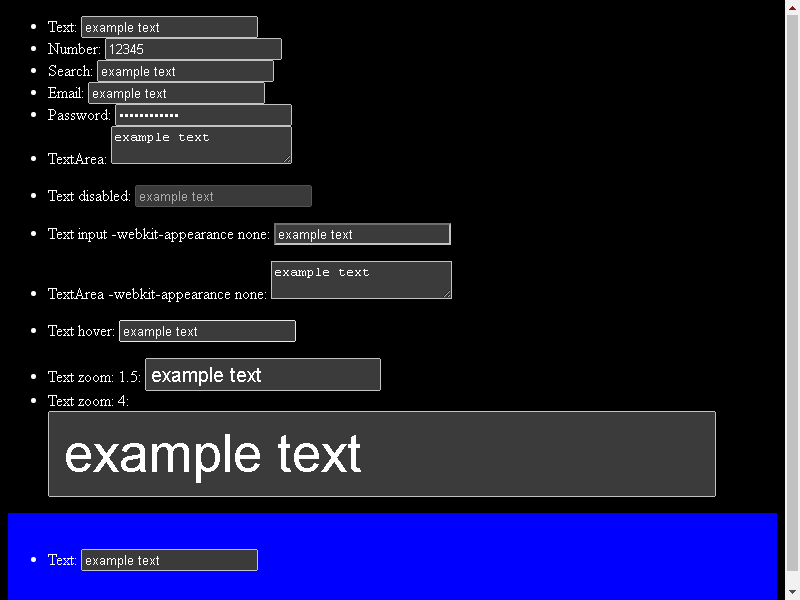
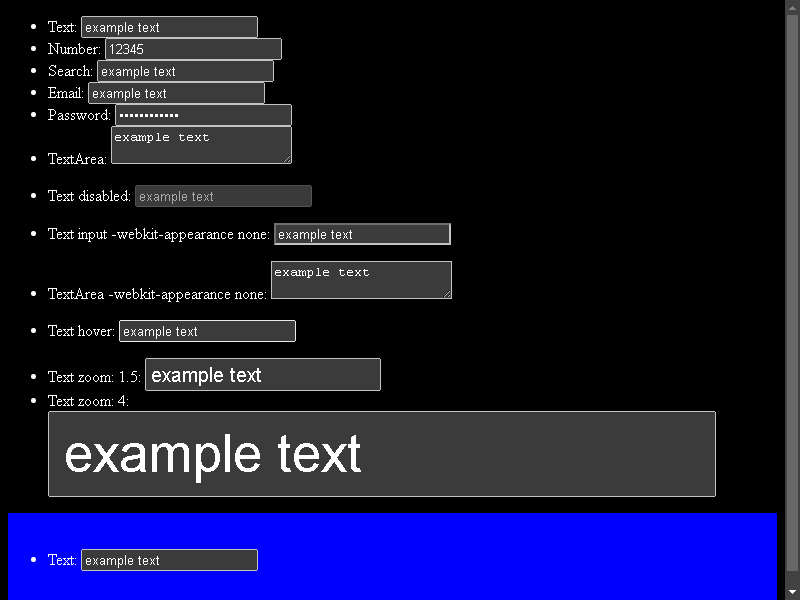
[Controls Refresh] Adds dark mode styling for scrollbars
This change uses the native_theme and scrollbar_theme properties to set
correct dark mode styling for scrollbars.

Bug: 929098
Commit-Queue: Sam Sebree <sasebree@microsoft.com>
Cr-Original-Commit-Position: refs/heads/master@{#760579}
Cr-Mirrored-From: https://chromium.googlesource.com/chromium/src
Cr-Mirrored-Commit: c6246ceb5ce6aca56427e2a96d9b8bdf6aa8d534

Changed region(s): [[0.9688, 0.0, 1.0, 1.0]]

diff --git a/blink/web_tests/virtual/dark-color-scheme/scrollbar/scrollbar-middle.html b/blink/web_tests/virtual/dark-color-scheme/scrollbar/scrollbar-middle.html
@@ -1,0 +1,23 @@
+<!DOCTYPE html>
+<meta name="color-scheme" content="dark">
+<body>
+  <br><br><br><br><br>
+  <br><br><br><br><br>
+  <br><br><br><br><br>
+  <br><br><br><br><br>
+  <br><br><br><br><br>
+  <br><br><br><br><br>
+  <br><br><br><br><br>
+  <br><br><br><br><br>
+  <br><br><br><br><br>
+  <br><br><br><br><br>
+  <br><br><br><br><br>
+  <br><br><br><br><br>
+  <br><br><br><br><br>
+  <br><br><br><br><br>
+  <br><br><br><br><br>
+  <br><br><br><br><br>
+  <script>
+    window.scrollBy(0, 100);
+  </script>
+</body>

diff --git a/blink/web_tests/virtual/dark-color-scheme/scrollbar/scrollbar-top.html b/blink/web_tests/virtual/dark-color-scheme/scrollbar/scrollbar-top.html
@@ -1,0 +1,20 @@
+<!DOCTYPE html>
+<meta name="color-scheme" content="dark">
+<body>
+  <br><br><br><br><br>
+  <br><br><br><br><br>
+  <br><br><br><br><br>
+  <br><br><br><br><br>
+  <br><br><br><br><br>
+  <br><br><br><br><br>
+  <br><br><br><br><br>
+  <br><br><br><br><br>
+  <br><br><br><br><br>
+  <br><br><br><br><br>
+  <br><br><br><br><br>
+  <br><br><br><br><br>
+  <br><br><br><br><br>
+  <br><br><br><br><br>
+  <br><br><br><br><br>
+  <br><br><br><br><br>
+</body>

diff --git a/blink/renderer/core/scroll/scrollbar_theme_mac.mm b/blink/renderer/core/scroll/scrollbar_theme_mac.mm
@@ -236,8 +236,8 @@ CocoaScrollbarPainter::Params GetPaintParams(const Scrollbar& scrollbar,
   if (scrollbar.IsLeftSideVerticalScrollbar())
     params.orientation = CocoaScrollbarPainter::Orientation::kVerticalOnLeft;
 
+  params.dark_mode = scrollbar.UsedColorScheme() == WebColorScheme::kDark;
   params.overlay = overlay;
-  // Only enable dark mode for overlay scrollbars (for now).
   if (overlay)
     params.dark_mode = scrollbar.GetScrollbarOverlayColorTheme() ==
                        kScrollbarOverlayColorThemeLight;
